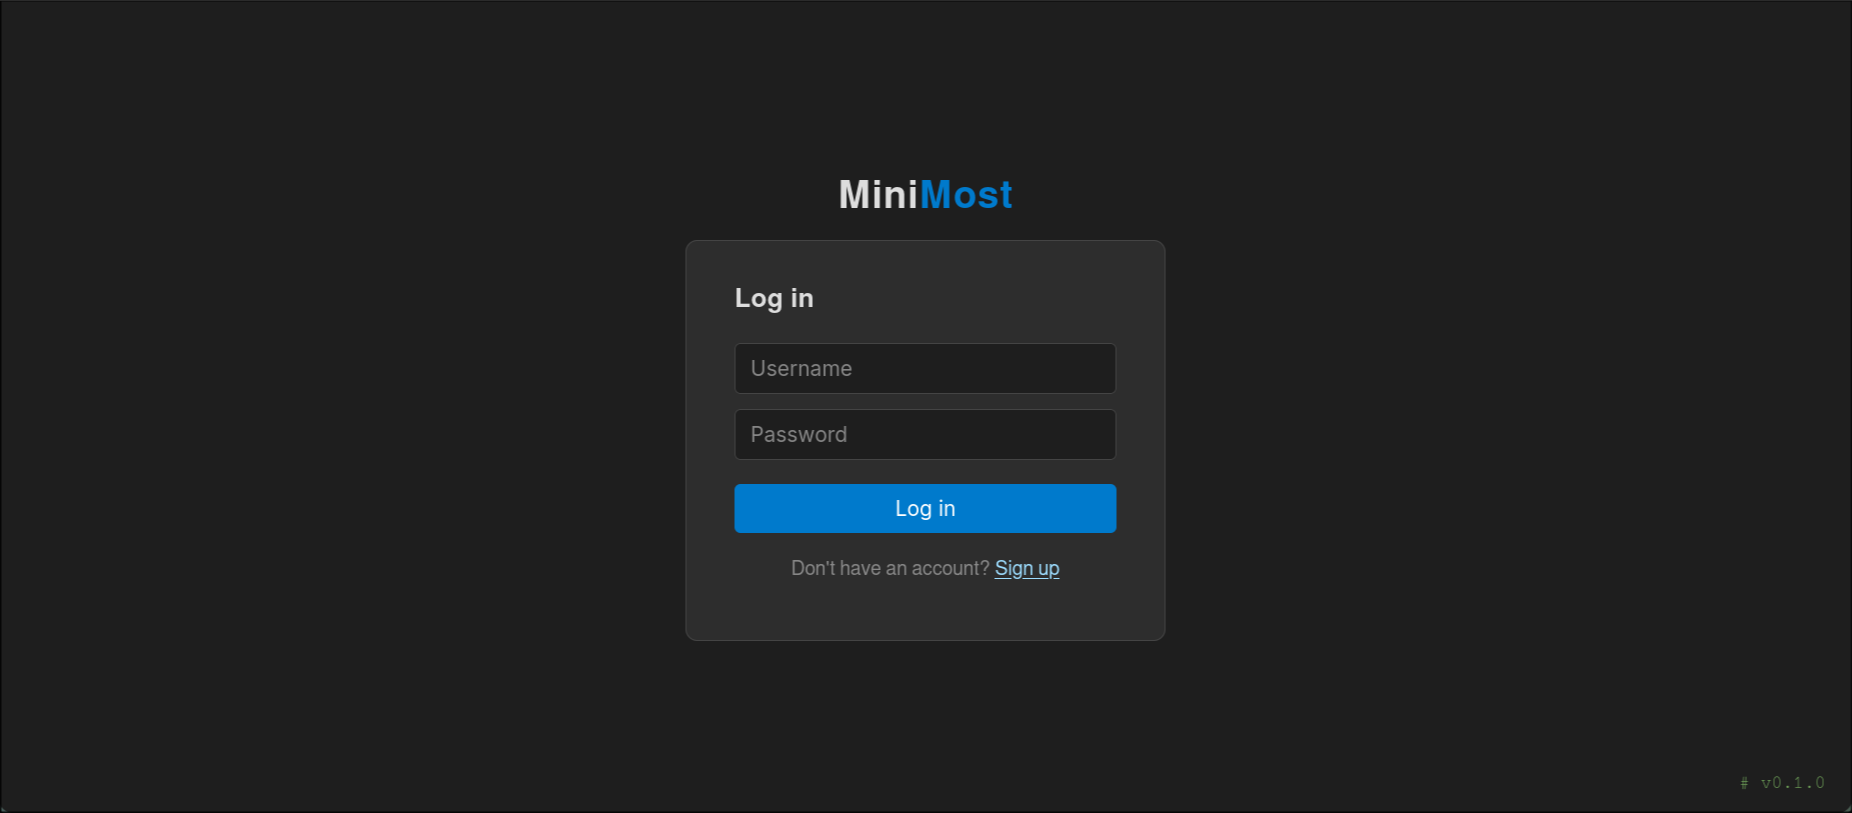
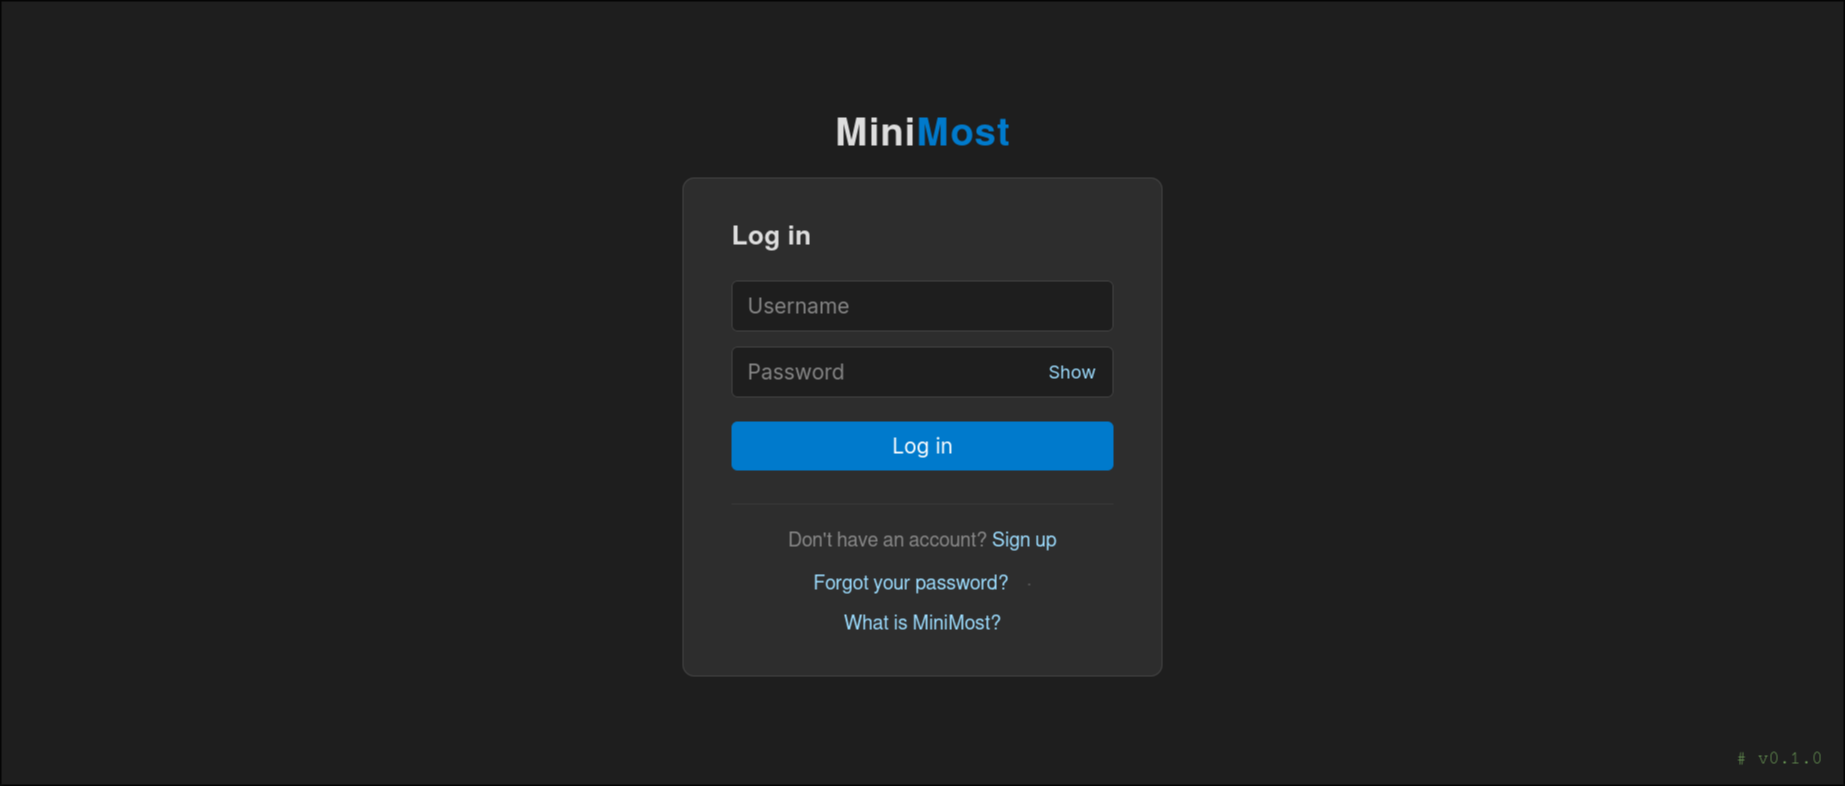
Refactor: Update message clustering from backend to frontend

diff --git a/src/minimost/templates/chat.html b/src/minimost/templates/chat.html
@@ -1384,6 +1384,41 @@ function _ensureDateDivider(chat, dateKey, msgDate) {
     return true;
 }
 
+// Consecutive messages from the same sender within this many seconds are
+// visually collapsed into one cluster (avatar + name shown only on the first).
+const GROUP_WINDOW_SEC = 300;
+
+// Walk the chat in order and toggle the `grouped` class on each message so
+// that runs of messages from the same sender (within GROUP_WINDOW_SEC, and not
+// broken by a date divider or a system message) render as a single cluster.
+// Messages are stored as separate rows in the backend; this is purely visual.
+function regroupMessages() {
+    const chat = document.getElementById("chat");
+    let prevSender = null;
+    let prevTs = 0;
+    for (const el of chat.children) {
+        if (!el.classList.contains("msg")) {
+            // Date dividers (and anything else) break the cluster.
+            prevSender = null;
+            prevTs = 0;
+            continue;
+        }
+        if (el.classList.contains("system-msg")) {
+            el.classList.remove("grouped");
+            prevSender = null;
+            prevTs = 0;
+            continue;
+        }
+        const sender = el.dataset.sender;
+        const ts = parseFloat(el.dataset.ts) || 0;
+        const gap = ts - prevTs;
+        const grouped = sender && sender === prevSender && gap >= 0 && gap < GROUP_WINDOW_SEC;
+        el.classList.toggle("grouped", grouped);
+        prevSender = sender;
+        prevTs = ts;
+    }
+}
+
 function _buildMsgHtml(m, time, fullTime, color) {
     const displayName = m.sender === "system" ? "MiniMost" : m.sender;
     let headerHtml = `<span class="user ${m.sender === "system" ? "system-msg-name" : ""}" style="color:${m.sender === "system" ? "" : color}" data-username="${m.sender}">${displayName}</span>`;
@@ -1595,6 +1630,8 @@ function fetchMessages() {
                 if (m.reply_to_id) loadQuotedMsg(m.id, m.reply_to_id);
                 lastTs = Math.max(lastTs, m.ts, m.edited_ts || 0, m.reactions_ts || 0);
             });
+
+            regroupMessages();
 
             const mentionAlert = mentionMsg && notifyArmed;
 

diff --git a/src/minimost/static/styles.css b/src/minimost/static/styles.css
@@ -361,7 +361,9 @@ body {
   display: flex;
   align-items: flex-start;
   gap: 8px;
-  margin: 6px 0;
+  /* Spacing is top-only so grouped continuations can set their own tight gap
+     without inheriting the preceding message's bottom margin. */
+  margin: 6px 0 0;
   font-family: system-ui, sans-serif;
 }
 .msg-content-col {
@@ -395,6 +397,37 @@ body {
 }
 .msg > .avatar-wrap {
   align-self: flex-start;
+}
+/* Grouped (clustered) messages: consecutive sends from the same author within
+   GROUP_WINDOW_SEC. The avatar gutter is preserved for alignment but blanked,
+   and the author name is hidden so the run reads as one cluster. Each message
+   is still its own row in the backend — this grouping is purely visual. */
+.msg.grouped {
+  margin-top: 2px;
+}
+.msg.grouped > .avatar-wrap {
+  visibility: hidden;
+}
+.msg.grouped .user {
+  display: none;
+}
+/* Take the header out of flow so the body sits flush at the top of the cluster
+   (otherwise the always-present, opacity-0 action row would leave a gap). The
+   timestamp, read receipt, and hover actions float at the top-right instead. */
+.msg.grouped .msg-content-col {
+  position: relative;
+}
+.msg.grouped .msg-header {
+  position: absolute;
+  top: 0;
+  right: 8px;
+  margin: 0;
+}
+.msg.grouped .time {
+  display: none;
+}
+.msg.grouped:hover .time {
+  display: inline;
 }
 .msg.visual-selected {
   background: rgba(0, 122, 204, 0.18);

diff --git a/src/minimost/chat.py b/src/minimost/chat.py
@@ -1228,34 +1228,6 @@ def _insert_message(
         )
 
 
-def _try_append_message(db, channel, sender, text, ts, filenames, reply_to_id):
-    """Append text to the sender's previous message if within the 300 s window.
-
-    Returns True if appended; returns False if a new message is needed. Operates
-    on the single canonical row, so the merge is one UPDATE. Does not commit.
-    """
-    if not text or filenames or reply_to_id is not None:
-        return False
-    prev = db.execute(
-        """
-        SELECT id, ts, content FROM messages
-        WHERE channel = ? AND sender = ? AND deleted = 0
-          AND filename IS NULL AND reply_to_id IS NULL
-        ORDER BY ts DESC LIMIT 1
-        """,
-        (channel, sender),
-    ).fetchone()
-    if not prev or (ts - prev["ts"]) >= 300:
-        return False
-    combined = prev["content"] + "\n" + text
-    mentions = _mentions_json(combined, channel)
-    db.execute(
-        "UPDATE messages SET content = ?, edited_ts = ?, mentions = ? WHERE id = ?",
-        (combined, ts, mentions, prev["id"]),
-    )
-    return True
-
-
 def post_welcome_message(new_user: str) -> None:
     """Post a system welcome message greeting a new user.
 
@@ -1310,8 +1282,9 @@ def send(channel):
 
     * A text body becomes one row; each uploaded image becomes an additional
       row (``content = ''`` with ``filename`` set to the UUID-based filename).
-    * Consecutive short messages from the same sender within 300 s are merged
-      into the previous row (see :func:`_try_append_message`).
+      Each send is always its own canonical row — consecutive short messages
+      from the same sender are kept separate in the backend and only grouped
+      visually in the frontend.
     * The sender's read watermark for the channel is advanced to this message,
       so their own message never counts as unread.
 
@@ -1355,13 +1328,8 @@ def send(channel):
     ts = time()
     db = get_db()
     try:
-        if not _try_append_message(
-            db, channel, sender, text, ts, filenames, reply_to_id
-        ):
-            mentions = _mentions_json(text, channel)
-            _insert_message(
-                db, channel, sender, text, ts, reply_to_id, filenames, mentions
-            )
+        mentions = _mentions_json(text, channel)
+        _insert_message(db, channel, sender, text, ts, reply_to_id, filenames, mentions)
         # The sender has implicitly read up to their own message.
         _advance_read(db, sender, channel, ts)
         db.commit()

diff --git a/tests/test_routes_chat.py b/tests/test_routes_chat.py
@@ -795,13 +795,14 @@ def test_delete_account_soft_cleans_presence(alice):
     assert row is None
 
 
-# ── Message append (send within 300 s groups messages) ───────────────────────
+# ── Message storage (each send is its own row; grouping is frontend-only) ─────
 
 
-def test_send_appends_to_recent_message(alice):
+def test_send_keeps_recent_message_separate(alice):
+    """A quick follow-up is a distinct row, not merged into the previous one."""
     import time as _time
 
-    ts = _time.time() - 10  # 10 s ago — within 300 s window
+    ts = _time.time() - 10  # 10 s ago — would have been within the old window
     db = sqlite3.connect(str(common_mod.shared_db_path()))
     db.execute(
         "INSERT INTO messages (channel, sender, content, ts) VALUES (?, ?, ?, ?)",
@@ -812,15 +813,17 @@ def test_send_appends_to_recent_message(alice):
     resp = alice.post("/send/general", data={"text": "second line"})
     assert resp.status_code == 200
     db = sqlite3.connect(str(common_mod.shared_db_path()))
-    row = db.execute("SELECT content FROM messages WHERE channel='general'").fetchone()
+    rows = db.execute(
+        "SELECT content FROM messages WHERE channel='general' ORDER BY ts"
+    ).fetchall()
     db.close()
-    assert "first line\nsecond line" == row[0]
+    assert [r[0] for r in rows] == ["first line", "second line"]
 
 
-def test_send_does_not_append_old_message(alice):
+def test_send_keeps_old_message_separate(alice):
     import time as _time
 
-    ts = _time.time() - 400  # older than 300 s
+    ts = _time.time() - 400
     db = sqlite3.connect(str(common_mod.shared_db_path()))
     db.execute(
         "INSERT INTO messages (channel, sender, content, ts) VALUES (?, ?, ?, ?)",